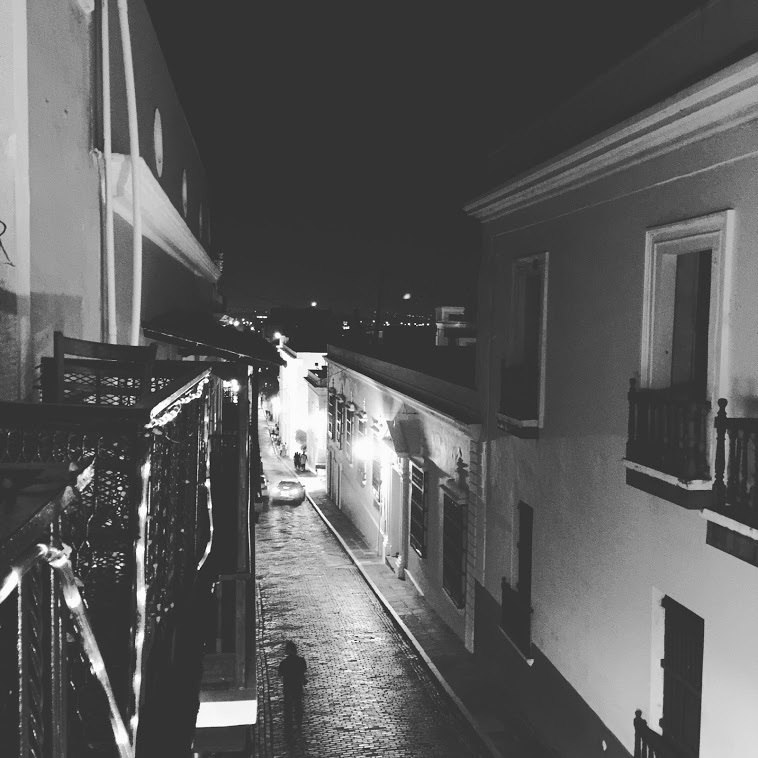
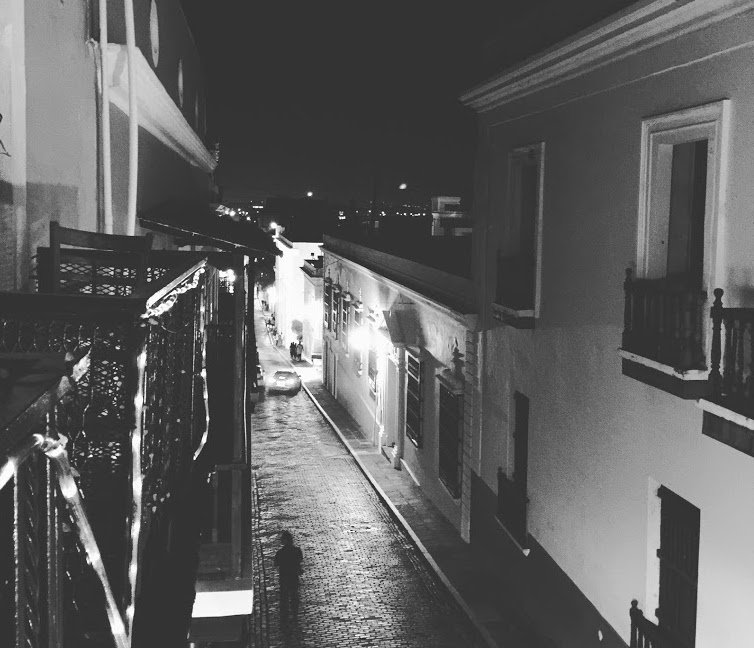
playing around with the srcset for the home page works better in 1920px not width, centered home img and title in _include/adjusted...

diff --git a/_includes/adjusted_fixed_image_for_home.html b/_includes/adjusted_fixed_image_for_home.html
@@ -1,9 +1,10 @@
-<img
-	srcset="/assets/images/viejosanjuan.JPG  1920px,
-	        /assets/images/viejosanjuan-medium.JPG  1024w,
-	        /assets/images/viejosanjuan-small.JPG  480w"
-	src="/assets/images/viejosanjuan.JPG" >
-
+<figure class="align-center">
+	<img
+		srcset="/assets/images/viejosanjuan.JPG  1920px,
+	        	/assets/images/viejosanjuan-medium.JPG  1024w,
+	        	/assets/images/viejosanjuan-small.JPG  480w"
+		src="/assets/images/viejosanjuan.JPG" >
+</figure>
 <!--<figure style="width: 1200px">
   <img src="{{ site.url }}{{ site.baseurl }}/assets/images/image-alignment-1200x4002.jpg" alt="">
   <figcaption>Massive image comment for your eyeballs.</figcaption>

diff --git a/index.html b/index.html
@@ -6,7 +6,7 @@ header:
   overlay_image: /assets/images/adoquin.jpg
   overlay_filter: 0.2 # same as adding an opacity of 0.5 to a black background
   cta_label: "paralelepípedo"
-  cta_url: "https://joshuagob.github.io/_posts/"
+  cta_url: "/home/"
   caption: "Photo credit: [**vxla**](https://www.flickr.com/people/vxla/)"
 excerpt: "
 <br />

diff --git a/_pages/home_index.md b/_pages/home_index.md
@@ -6,18 +6,15 @@ permalink: "/home/"
 author_profile: true
 
 ---
-
+<!--modified include template to have the image, it includes a srcset-->
 {% include adjusted_fixed_image_for_home.html %}
-
-
-
+{: style="image-align: center"}
 <h1>Posts</h1>
+{: style="text-align: center"}
 {% for post in site.posts %}
   {% include archive-single.html %}
 {% endfor %}
-
 {% capture written_label %}'None'{% endcapture %}
-
 {% for collection in site.collections %}
 {% unless collection.output == false or collection.label == "posts" %}
   {% capture label %}{{ collection.label }}{% endcapture %}
